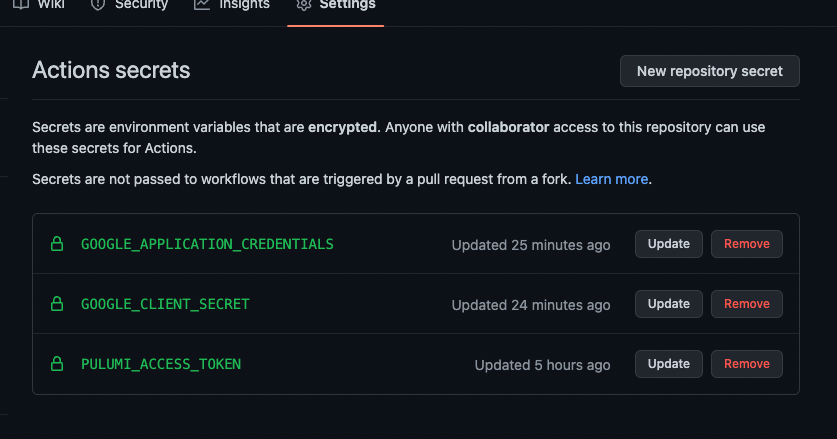
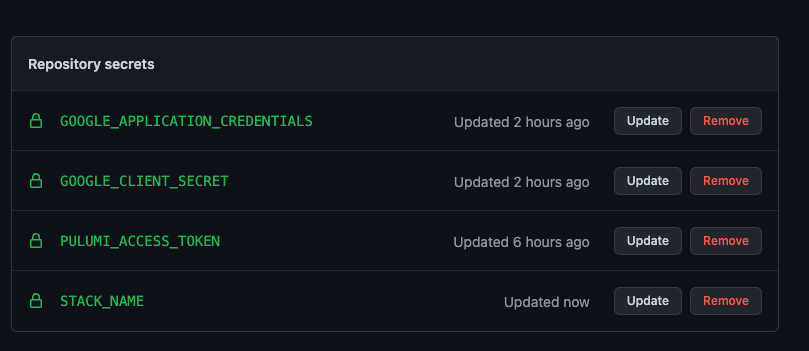
add stack name to secrets

diff --git a/README.md b/README.md
@@ -9,8 +9,8 @@ Manage your YouTube playlists in YAML on GitHub. Just fork this repo and follow 
 To be honest, I have no idea. It seemed like a funny concept and yamltube.com was $12.
 
 ## Demo
-![Demo of Web Only Workflow](https://user-images.githubusercontent.com/17183569/173210714-072d88ae-1f29-4da4-8406-b4b1e38c5aca.gif)
 
+![Demo of Web Only Workflow](https://user-images.githubusercontent.com/17183569/173210714-072d88ae-1f29-4da4-8406-b4b1e38c5aca.gif)
 
 ## Anyways, this is how you define a playlist:
 
@@ -101,7 +101,7 @@ Rick Roll              https://www.youtube.com/playlist?list=PLeQFt2AXw9mQpVhWC5
 Making My Way Downtown https://www.youtube.com/playlist?list=PLeQFt2AXw9mQNM6J7WA_v37PvOdXBYtG-
 
 Successfully saved ./application_credentials.json
-Run: 
+Run:
     export GOOGLE_APPLICATION_CREDENTIALS="$(cat ./application_credentials.json)"
     export GOOGLE_CLIENT_SECRET="$(cat ./client_secret.json)"
 ```
@@ -149,13 +149,15 @@ Duration: 4s
 ### 6. Github Actions Setup (Optional, but you really should)
 
 Go to your forked repo, click `Settings` > `Secrets` > `Actions`
+
 ```
 +--------------------------------+--------------------------------------------+
 |          Secret Name           |                   Value                    |
 +--------------------------------+--------------------------------------------+
 | GOOGLE_CLIENT_SECRET           | contents of ./client_secret.json           |
 | GOOGLE_APPLICATION_CREDENTIALS | contents of ./application_credentials.json |
-| PULUMI_ACCESS_TOKEN            | <token> from ui                            |
+| PULUMI_ACCCESS_TOKEN           | <token> from ui                            |
+| STACK_NAME                     | name of the pulumi stack                   |
 +--------------------------------+--------------------------------------------+
 ```
 
